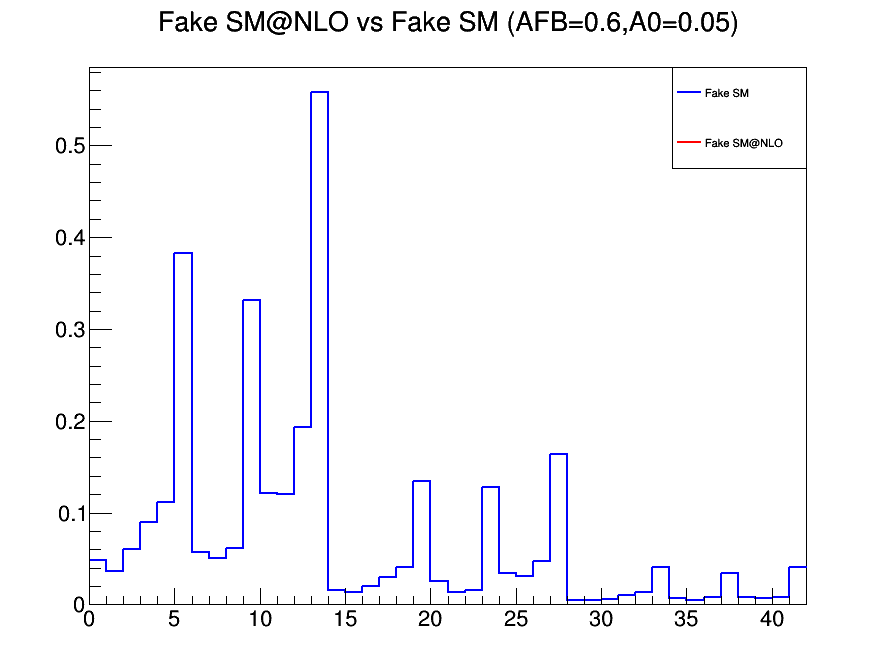
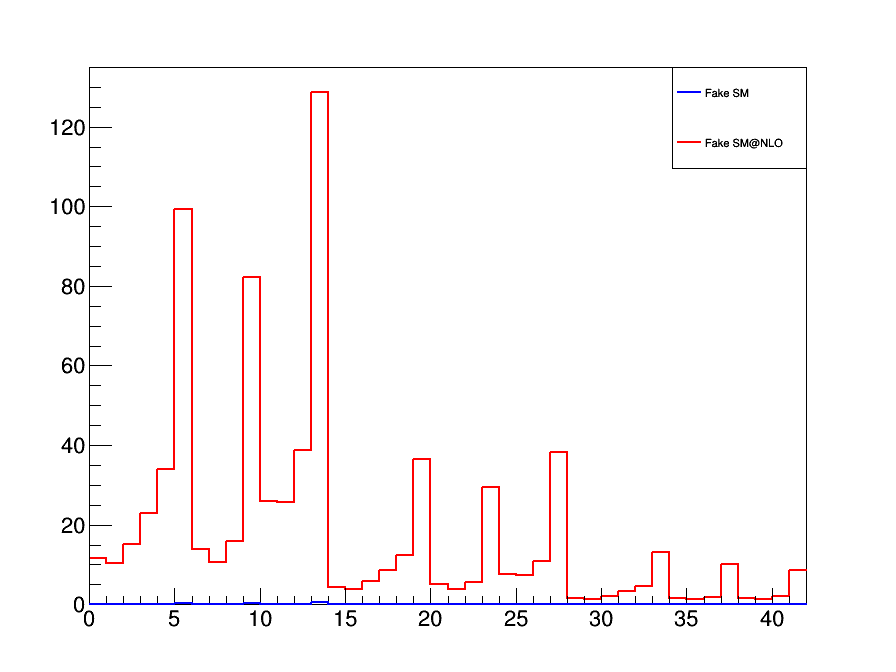
sm vs nlo plots

diff --git a/analyze/combine/LQ_make_gen_templates.C b/analyze/combine/LQ_make_gen_templates.C
@@ -284,8 +284,9 @@ void LQ_make_gen_templates(){
         h1_data_SM->SetLineWidth(2);
         h1_total_SM_NLO->SetLineWidth(2); 
         h1_data_SM->SetTitle("Fake SM@NLO vs Fake SM (AFB=0.6,A0=0.05)");
-        h1_data_SM->Draw("hist");
-        h1_total_SM_NLO->Draw("hist same ");
+        h1_total_SM_NLO->Draw("hist");
+	h1_data_SM->Draw("hist same");
+        //h1_total_SM_NLO->Draw("hist same ");
         TLegend *leg4 = new TLegend(0.75, 0.75, 0.9, 0.9);
         //leg2->AddEntry(h1_LQpure_u, "LQ_ue templates", "l");
         leg4->AddEntry(h1_data_SM, "Fake SM ", "l");
